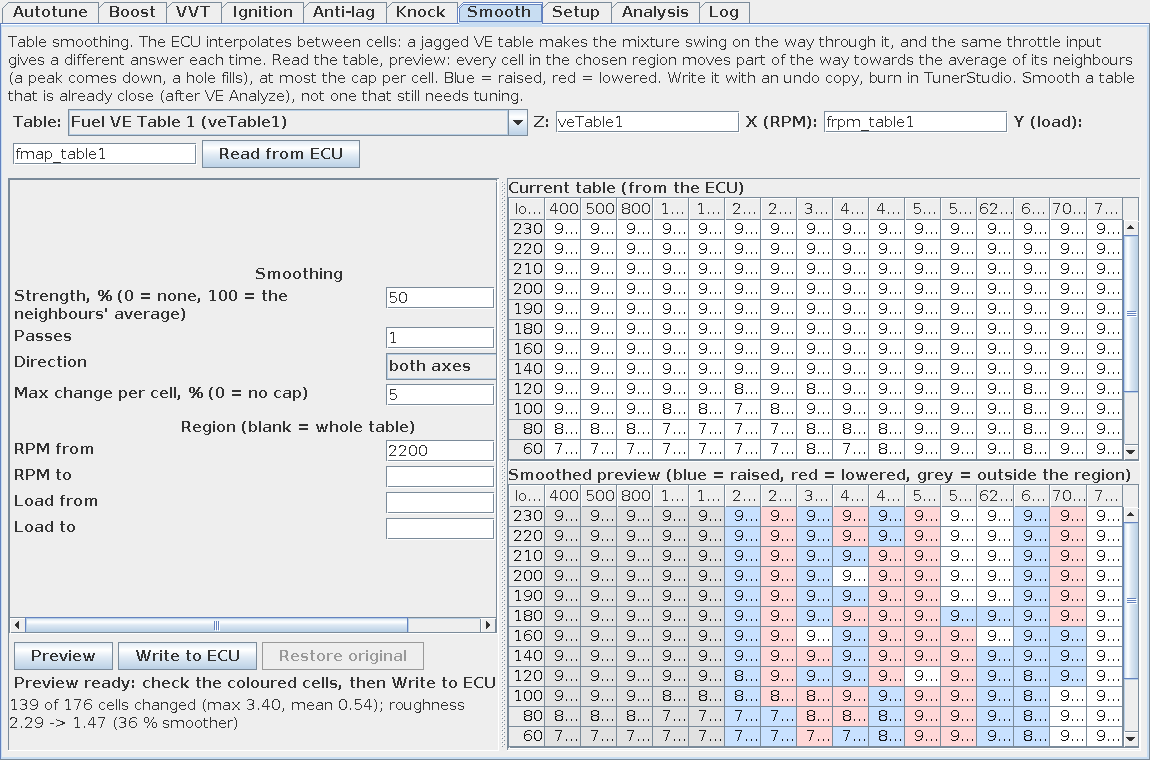
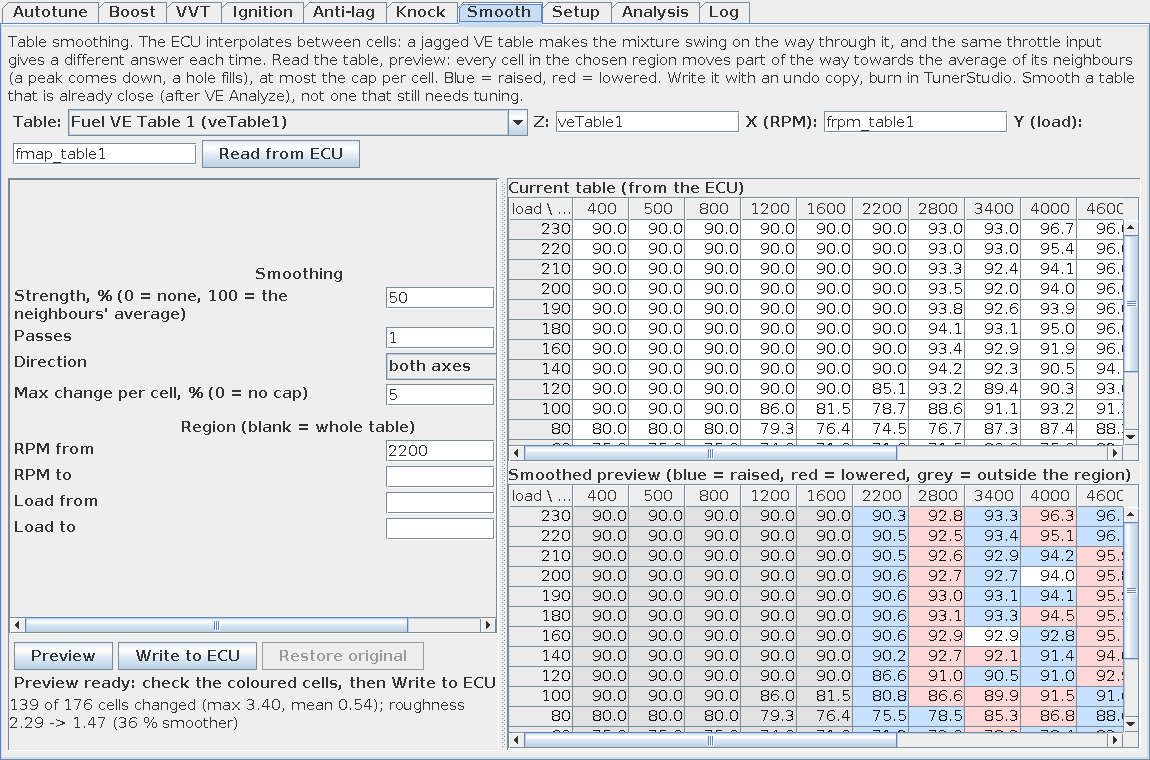
Smooth tab: fixed column widths so all 16 columns stay readable
The two grids used to squeeze 16 columns into the split pane and
truncate the values; they now keep a fixed column width and scroll
horizontally instead. Screenshot refreshed.

Claude-Session: https://claude.ai/code/session_01WMDcv15XFjgY16SMi8wYho

diff --git a/boost-autotune-plugin/src/main/java/io/github/xadmiral/boostautotune/plugin/ui/SmoothPanel.java b/boost-autotune-plugin/src/main/java/io/github/xadmiral/boostautotune/plugin/ui/SmoothPanel.java
@@ -213,8 +213,16 @@ public final class SmoothPanel extends JPanel {
         JPanel p = new JPanel(new BorderLayout());
         JLabel l = new JLabel(title);
         p.add(l, BorderLayout.NORTH);
-        p.add(new JScrollPane(t), BorderLayout.CENTER);
+        // fixed column widths and a horizontal scrollbar: 16 columns must stay readable
+        t.setAutoResizeMode(JTable.AUTO_RESIZE_OFF);
+        p.add(new JScrollPane(t, JScrollPane.VERTICAL_SCROLLBAR_AS_NEEDED, JScrollPane.HORIZONTAL_SCROLLBAR_AS_NEEDED), BorderLayout.CENTER);
         return p;
+    }
+
+    private static void sizeColumns(JTable t) {
+        for (int c = 0; c < t.getColumnCount(); c++) {
+            t.getColumnModel().getColumn(c).setPreferredWidth(c == 0 ? 64 : 56);
+        }
     }
 
     private String config() {
@@ -302,6 +310,7 @@ public final class SmoothPanel extends JPanel {
             currentModel.setFormat(fmt());
             currentModel.setYLabel("load \\ rpm");
             currentModel.setGrid(current, null);
+            sizeColumns(currentTable);
             previewModel.setFormat(fmt());
             previewModel.setYLabel("load \\ rpm");
             previewModel.setGrid(null, null);
@@ -347,6 +356,7 @@ public final class SmoothPanel extends JPanel {
         }
         preview = TableSmoother.smooth(current, settings);
         previewModel.setGrid(preview.smoothed, current);
+        sizeColumns(previewTable);
         stats.setText(preview.summary());
         writeBtn.setEnabled(preview.changedCells > 0);
         status.setText(preview.changedCells > 0 ? "Preview ready: check the coloured cells, then Write to ECU" : "Nothing to change with these settings");
@@ -374,6 +384,7 @@ public final class SmoothPanel extends JPanel {
             log.line("[smooth] " + zName + " written: " + preview.summary());
             current = preview.smoothed.copy();
             currentModel.setGrid(current, original);
+            sizeColumns(currentTable);
             previewModel.setGrid(null, null);
             preview = null;
             writeBtn.setEnabled(false);
@@ -396,6 +407,7 @@ public final class SmoothPanel extends JPanel {
             current = original.copy();
             original = null;
             currentModel.setGrid(current, null);
+            sizeColumns(currentTable);
             previewModel.setGrid(null, null);
             preview = null;
             writeBtn.setEnabled(false);
